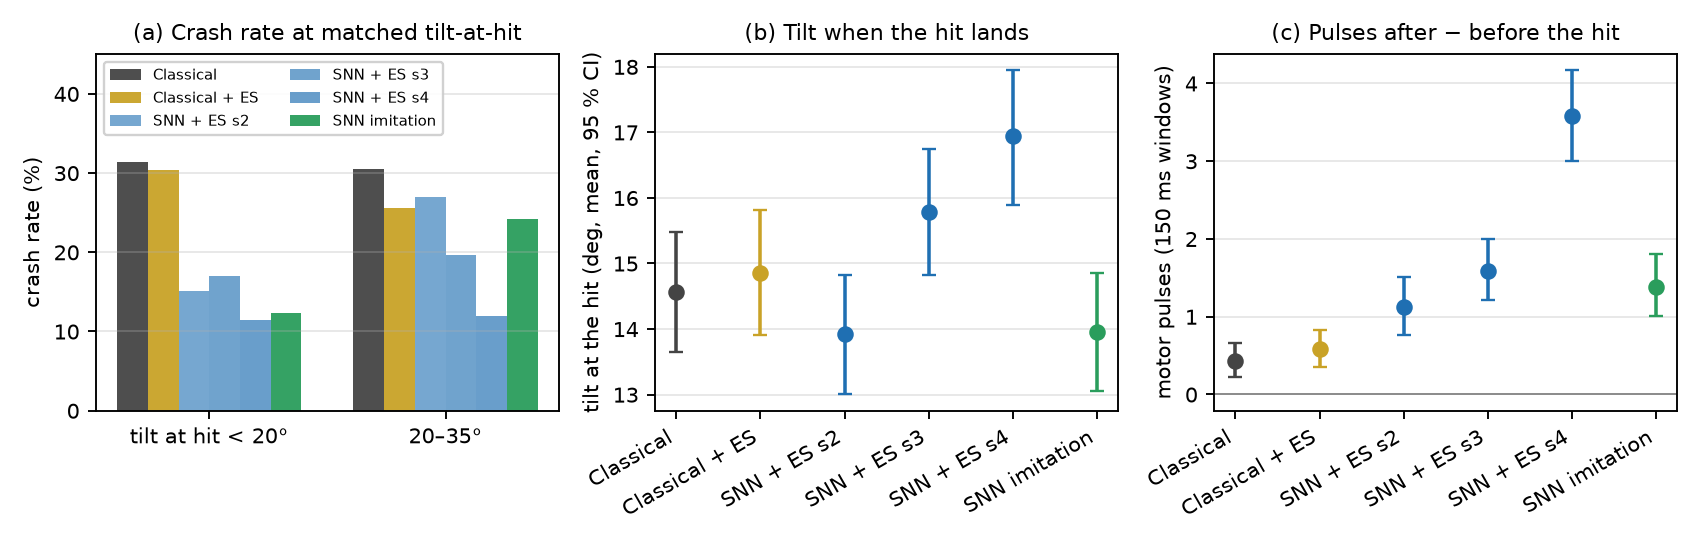
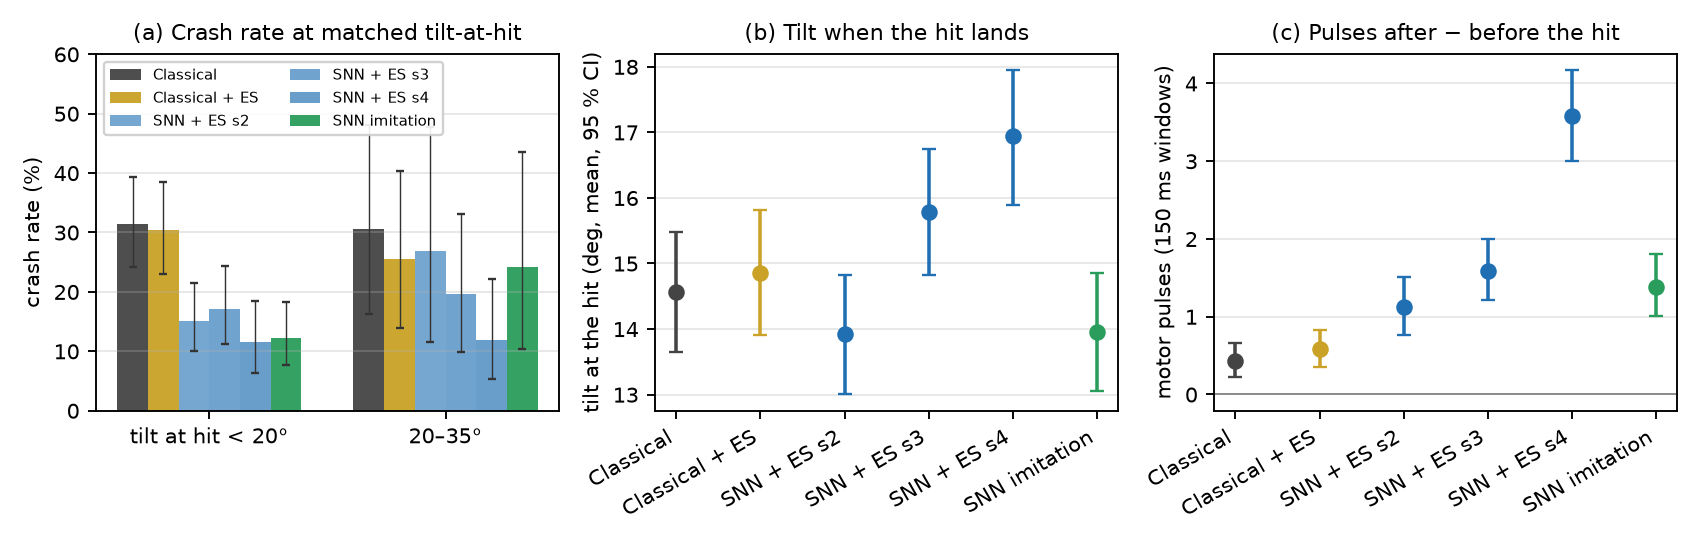
paper: figure fixes after review round 2 (skew histogram, crash annotations, machine distinction, H1 labels, legend positions, CIs on matched-tilt bins, labelled interval band); review round 2 stored
Claude-Session: https://claude.ai/code/session_01XJCwSxuAndV8x1hbQ9Lmq2

diff --git a/docs/paper/make_results_figs.py b/docs/paper/make_results_figs.py
@@ -56,14 +56,14 @@ def fig_crashes():
     ax.bar(x+.5*w, m, w, color=C_SNN, label='SNN + ES (v11, 5 seeds, mean; bar = min–max)', yerr=[lo, hi], capsize=2, ecolor='#0b3d6b', error_kw=dict(lw=.8))
     ax.bar(x+1.5*w, np.array(bc)/1.92, w, color=C_BC, label='SNN, imitation only (seed 1)')
     for i, h in enumerate(h1):
-        ax.text(x[i], max(cls[i], max(snn[i]))/1.92+2.5, f"{h['seeds_passing']}/{h['seeds']}", ha='center', fontsize=7, color='#0b3d6b')
+        ax.text(x[i], max(cls[i], max(snn[i]))/1.92+2.5, f"H1 {h['seeds_passing']}/{h['seeds']}", ha='center', fontsize=6.5, color='#0b3d6b')
     ax.set_xticks(x)
     ax.set_xticklabels(labels, rotation=35, ha='right')
     ax.set_ylabel('crashed episodes (% of 192)')
     ax.set_ylim(0, 60)
     ax.grid(axis='y', alpha=.3)
     ax.legend(loc='upper right', ncol=2)
-    ax.set_title('Crashes of the frozen controllers on 14 blind robustness sets (64 cases per task); numbers = v11 seeds passing H1')
+    ax.set_title('Crashed episodes of the frozen controllers on 14 blind robustness sets (192 cases each)')
     fig.tight_layout()
     fig.savefig(OUT/'fig_r2_crashes.png')
     plt.close(fig)
@@ -102,10 +102,14 @@ def fig_delta():
     ax.set_yticks(y)
     ax.set_yticklabels(labels)
     ax.invert_yaxis()
-    ax.set_xlabel('paired Δ = arm ratio − classical opponent\'s own ratio on the same cases\n(negative = better than the re-tuned classical schedule)')
+    ax.set_xlabel('paired Δ = arm ratio − classical opponent\'s own ratio on the same cases\n(negative = better than the hand-tuned classical opponent)')
     ax.grid(axis='x', alpha=.3)
-    ax.legend(loc='upper right')
-    ax.set_title('Paired difference to the re-tuned classical schedule on every blind set')
+    ax.legend(loc='lower left', framealpha=.95)
+    for i in range(n):
+        for v in snn[i]:
+            if v > .6:
+                ax.annotate('v11 seed 1 (17 crashes)', (v, y[i]), xytext=(v-.02, y[i]-.55), fontsize=7, ha='right', color=C_SNN, arrowprops=dict(arrowstyle='-', color=C_SNN, lw=.6))
+    ax.set_title('Paired difference to the hand-tuned classical schedule on every blind set')
     fig.tight_layout()
     fig.savefig(OUT/'fig_r3_paired_delta.png')
     plt.close(fig)
@@ -175,14 +179,17 @@ def fig_nominal():
     S11 = json.loads((A/'plan_v11/summary.json').read_text())
     opp11 = json.loads((R/'v11/test_opponent.json').read_text())
     rows.append(('v11\n(fixed ES)', [S11[f's{s}']['snn_es']['mean'] for s in range(1, 6)], paired(opp11, opp11)['mean'],
-                 [S11[f'cls_es_s{s}']['mean'] for s in (1, 2)]+[0.999, 1.018]))
+                 [S11[f'cls_es_s{s}']['mean'] for s in (1, 2)]))
+    crashes = ['SNN 2 / opp. 1', 'SNN 10 / opp. 5', 'SNN 3 / opp. 0', 'SNN 6 / opp. 3', 'SNN 0 / opp. 0']
     fig, ax = plt.subplots(figsize=(7.4, 3.5), dpi=170)
     x = np.arange(len(rows))
     for i, (lab, snn, self_, cles) in enumerate(rows):
         ax.scatter([i]*len(snn), snn, color=C_SNN, s=26, zorder=3, label='SNN + ES, one point per seed' if i == 0 else None)
         ax.plot([i-.22, i+.22], [self_, self_], color=C_CLS, lw=2.2, zorder=2, label='classical opponent\'s own ratio' if i == 0 else None)
         if cles:
-            ax.scatter([i+.28]*len(cles), cles, marker='s', color=C_CLSES, s=24, zorder=3, label='Classical + ES (4 seeds)' if i == 4 else None)
+            ax.scatter([i+.28]*len(cles), cles, marker='s', color=C_CLSES, s=24, zorder=3, label='Classical + ES (2 seeds, same machines)' if i == 4 else None)
+            ax.scatter([i+.28]*2, [0.999, 1.018], marker='s', facecolors='none', edgecolors=C_CLSES, s=24, zorder=3, label='Classical + ES (2 seeds, approximate machine)' if i == 4 else None)
+        ax.text(i, .815, 'crashes: '+crashes[i], ha='center', fontsize=6.5, color=C_CLS)
     ax.axhline(.95, color='#c23b3b', ls=':', lw=1, label='preregistered threshold 0.95')
     ax.set_xticks(x)
     ax.set_xticklabels([r[0] for r in rows])
@@ -190,7 +197,7 @@ def fig_nominal():
     ax.set_ylim(.8, 1.5)
     ax.grid(axis='y', alpha=.3)
     ax.legend(loc='upper right', fontsize=7)
-    ax.set_title('Nominal manoeuvres: the ratio criterion is not reached by any controller, the classical included')
+    ax.set_title('Nominal manoeuvres: mean ratio per plan and the opponent\'s own ratio on the same blind set')
     fig.tight_layout()
     fig.savefig(OUT/'fig_r0_nominal.png')
     plt.close(fig)
@@ -207,13 +214,14 @@ def fig_mechanism():
     for j, (k, lab, col) in enumerate(arms):
         r = M[k]['crash_rate_by_tilt_at_hit']
         vals = [100*r[b][0]/r[b][1] if b in r else np.nan for b in bins]
-        ax.bar(np.arange(2)+(j-2.5)*w, vals, w, color=col, alpha=.95 if 'snn11' not in k else .55+.15*j/5, label=lab)
+        err = [[100*(r[b][0]/r[b][1]-r[b][2][0]) if b in r else 0 for b in bins], [100*(r[b][2][1]-r[b][0]/r[b][1]) if b in r else 0 for b in bins]]
+        ax.bar(np.arange(2)+(j-2.5)*w, vals, w, color=col, alpha=.95 if 'snn11' not in k else .55+.15*j/5, label=lab, yerr=err, capsize=1.5, error_kw=dict(lw=.6, ecolor='#333'))
     ax.set_xticks(np.arange(2))
     ax.set_xticklabels(['tilt at hit < 20°', '20–35°'])
     ax.set_ylabel('crash rate (%)')
     ax.set_title('(a) Crash rate at matched tilt-at-hit')
     ax.legend(fontsize=6.5, loc='upper left', ncol=2, framealpha=.9)
-    ax.set_ylim(0, 45)
+    ax.set_ylim(0, 60)
     ax.grid(axis='y', alpha=.3)
     ax = axes[1]
     for j, (k, lab, col) in enumerate(arms):
@@ -239,7 +247,28 @@ def fig_mechanism():
     plt.close(fig)
 
 
+def fig_skew():
+    import sys
+    sys.path.insert(0, str(ROOT))
+    opp = json.loads((R/'v11/test_opponent.json').read_text())
+    from experiments.algorithms.spike_steer import bench9 as T
+    fig, ax = plt.subplots(figsize=(5.2, 3.), dpi=170)
+    for t, col in (('evade', '#2f6db5'), ('redirect', '#1f8a4c'), ('dash', '#d4781f')):
+        med = {cl: np.median([r['score'] for r in opp if r['task'] == t and r['cls'] == cl]) for cl in T.CLASSES[t]}
+        ratios = [r['score']/med[r['cls']] for r in opp if r['task'] == t]
+        ax.hist(ratios, bins=np.arange(0, 3.05, .1), alpha=.55, color=col, label=f'{t}: mean {np.mean(ratios):.2f}')
+    ax.axvline(1., color='#444', lw=1)
+    ax.set_xlabel('opponent score ÷ its own class median (v11 blind set, 192 cases)')
+    ax.set_ylabel('cases')
+    ax.legend(fontsize=7.5)
+    ax.set_title('Why the ratio exceeds 1 for the opponent itself: right-skewed per-case ratios', fontsize=8.5)
+    fig.tight_layout()
+    fig.savefig(OUT/'fig_r0b_skew.png')
+    plt.close(fig)
+
+
 if __name__ == '__main__':
+    fig_skew()
     fig_nominal()
     fig_training()
     fig_crashes()

diff --git a/docs/paper/reviews/review_full_round2.md b/docs/paper/reviews/review_full_round2.md
@@ -1,0 +1,145 @@
+# Review of `docs/paper/draft_method_results.md`, round 2 (Sections 2–3, figures)
+
+Scope: every number in Section 3 was checked against `artifacts/spike_steer/plan_v*/`, `runs/spike_steer/v1{1,2,13}/*/summary.json` and the per-case rows (recomputed with `paired_report.paired` where needed); all 12 figures were opened. Paths below are relative to `/root/flapsim`. Items are ordered by importance within each part.
+
+---
+
+## A. Results numbers vs artifacts
+
+### A1. Discrepancies (draft text → source → fix)
+
+1. **"ES improves every seed over its imitation start by 0.06–0.20."** → `plan_v11/summary.json`: s1 1.166→1.046 (−0.120), s3 1.137→1.033 (−0.104), s4 1.238→1.054 (−0.184), s5 1.257→1.063 (−0.194); s2 `selected_generation = −1`, i.e. its "ES" controller *is* the imitation start (improvement 0). → "ES improves four of the five seeds over their imitation start by 0.10–0.19; for seed 2 selection returned the start itself."
+
+2. **"the roll-direction class (90°/270°) remains at a ratio of 1.4–1.6 in every plan."** → `dash_classes.roll`: v11 1.17 / 1.00 / 1.40 / 1.56 / 1.52; v9 1.29 / 1.19 / 1.64 / 1.62 / 1.06; v10 1.87 / 1.30 / 1.00 / 1.33 / 1.06. → "dash roll is the weakest cell in every plan (1.0–1.9 depending on the seed; 1.40–1.56 for the three best v11 seeds), while dash pitch is the SNN's best cell (0.88–0.91 in v11)."
+
+3. **"reaches the target 20–30 % sooner than the opponent but brakes later (overshoot 0.10–0.17 m vs 0.04 m)."** → No source file states these numbers (not in `report_v10.md`, `report_v11_v12.md`, the audit, or the summaries). Recomputed from the v11 blind rows (dash roll, 16 cases, all flown): t_reach classical 0.617 s vs SNN 0.44–0.54 s (13–29 % sooner; 22–29 % for seeds 1, 3, 4, 5); penalised overshoot `max_along − 0.25 m`: classical 0.034 m, SNN 0.10–0.20 m (seed 1 0.20 m; raw overshoot beyond the 0.15 m goal is 0.13 m vs 0.20–0.30 m). The bigger loss is the settle time: 0.58 s classical vs 0.46–1.36 s SNN (1.0–1.4 s for seeds 3–5). → Define the quantity ("displacement beyond the 0.25 m penalty threshold"), quote 0.10–0.20 m, add the settle time, and cite the rows (`runs/spike_steer/v11/evaluate_snn_es_s*_v11.json`, `plan_v11/homepc/…`).
+
+4. **Training/selection paragraph: "the ES centres stay crash-free on their 24-case batches, reach an objective of 0.90–0.97 by generation 7–9, and the selection objective decreases monotonically for seeds 3–5."** → `finetune_s*_v11/history.jsonl`: `flown_center = 23` for s2 at generations 5 and 15 and for s5 at generation 5 (centre objectives 1.545 / 1.479 / 1.562, the spikes visible in Fig. R1a); 0–12 of the 16 candidates crash per generation. Centre objectives at generations 7–9 are 0.94–1.04; the best generation per seed is 0.92–0.96 (g7–g15). `reselect_s*_v11.json`: s3 0.983→0.987 (g9→g11), s4 1.141→1.173 (g−1→g1), s5 0.999→1.079→1.084 (g11→g13→g15, with crashes). → "With full coverage and crash-aware ranking the centre crashes on its batch only three times in 80 centre evaluations (seeds 2 and 5), the centre objective falls from 1.05–1.16 to 0.92–0.96, and the selection objective falls to 0.98–0.99 by generation 11–15 for seeds 3–5 (seed 5 rises again after generation 11 when its centres start to crash)." Classical + ES batches are 0.95–1.07 (typically 0.96–1.00), not "0.96–0.98"; 0.975 on validation is correct for both seeds.
+
+5. **PPO reference: "A reference MLP + PPO arm trained on the same tasks (plan v8, 5 seeds) scored 1.109 ± 0.024 with 1 crash in 960 episodes."** → `ppo_direct/v8/comparison_v8.json`: 1.068 / 1.116 / 1.109 / 1.123 / 1.130 (mean 1.109, sd 0.024), crashes 1/0/0/0/0 — numbers correct, but (a) they are on the **v8** blind set (base 2 098 500 000), where the opponent crashed 5 times and its own ratio is 1.415, so they are not comparable to the v11 column they sit next to; the SNN + ES on the *same* v8 set scored 0.97–1.07; (b) the selected "PPO" centre of seeds 2, 3 and 5 is the imitation start (`g-1, budget fraction 0.0`; their rows are identical to `mlp_bc`). → Either move the sentence to the v8 context ("on the v8 blind set: MLP + PPO 1.07–1.13 vs SNN + ES 0.97–1.07; three of the five PPO seeds selected their imitation start") or drop it.
+
+6. **"The advantage sits in dash (Δ −0.36 … −0.72; 3–9 crashes vs 20) and redirect (12–22 vs 24), not in evade."** → per-task crash counts from `runs/spike_steer/v12/kick/rows_*.json`: dash classical **19**, SNN **7 / 7 / 9 / 2 / 10**; redirect 24 vs 22/19/17/12/17 (correct); evade 17 vs 11/6/8/8/13 with per-task Δ +0.24 / −0.15 / −0.07 / −0.12 / +0.20. → "dash (Δ −0.36 … −0.72; 2–10 crashes vs 19) and redirect (12–22 vs 24); in evade the SNN crashes less (6–13 vs 17) but the paired Δ has no consistent sign (−0.15 … +0.24)."
+
+7. **"mass +12.5 % … Δ +0.02 … +0.07, two seeds significantly."** → `v12/ood/summary.json`: +0.047 [+0.027, +0.067], +0.070 [+0.046, +0.094], +0.021 [−0.008, +0.050], +0.040 [+0.005, +0.076], +0.017 [−0.009, +0.043] → three seeds (1, 2, 4).
+
+8. **"The set-point channel changes more than the opponent's (|Δref| 0.20–0.39 rad vs 0.25 rad)."** → `plan_v13/mechanism_summary.json` `dref_norm`: s2 0.200, s3 0.369, s4 0.386, imitation 0.189, classical 0.251 — larger only for s3/s4. More important: the preregistered "reaction" reading (`preregistration_v13.json`: "corrective set-point change in most cases (projection CI below 0)") is **not met by any arm** — `proj_on_induced` is +0.01 … +0.10 for every arm (CIs at or above 0), i.e. the set-point moves *with* the induced tilt on average; `corrective_fraction` 0.32–0.51 vs classical 0.135. → Say explicitly that the preregistered set-point criterion failed, and that the pulse-count measure (listed among the preregistered measures but without a pass criterion) is what carries the mechanism conclusion.
+
+9. **"At matched tilt-at-hit … 12–27 % against 31 % at 20–35°."** → `crash_rate_by_tilt_at_hit`: the 20–35° bin has 26–67 cases; Clopper–Pearson: classical 11/36 [0.163, 0.481], s2 7/26 [0.116, 0.478], s3 10/51 [0.098, 0.331], s4 8/67 [0.053, 0.222], imitation 7/29 [0.103, 0.435]. Only seed 4 separates from the classical in this bin. The < 20° bin (122–166 cases) does support the claim (classical 49/156 [0.242, 0.393] vs SNN 0.10–0.21). → Quote CIs or restrict "far less" to the < 20° bin.
+
+10. **Exploratory GoogleCloud numbers** (SNN 0.997 / 1.093 / 1.058 / 1.013 / 1.016, "opponent's own ratio 1.097 there", "mean 1.035, best 0.997, 0 crashes"; classical + ES 0.999 / 1.018). → No evaluate/rows file exists in the repository for seeds 6–10 or for cls_es seeds 3–4 (the audit also records "GoogleCloud seeds 6–10 rows not local"); 0.999/1.018 appear only in the table of `report_v11_v12.md`, the SNN values nowhere. → **Unverifiable locally.** Either add the evaluate JSONs to `artifacts/` or reduce Table R0's exploratory row to one sentence with "(files not archived)".
+
+11. **"hit about the roll axis … the learned layer's advantage lies on the axis its pulses can actuate."** → `v13/kick_rollaxis/summary.json`: opponent 0 crashes, four SNN seeds 0 crashes, Δ −0.09 … −0.16; this is a floor effect (nobody is challenged), so it cannot show presence or absence of a pitch-specific advantage, and it hides that **seed 1 crashed 17 times (7 evade, 10 redirect; Δ +0.84 [+0.42, +1.32]) on hits that crash nobody else**. → Report seed 1's failure explicitly and base the axis argument on pitch-axis (74 vs 36–51) vs mid-manoeuvre random axis (60 vs 22–40) only; say the roll-axis set is uninformative.
+
+12. **Expectations stated before the run.** (a) "As stated in the amendment before the run, the advantage shrinks once the hit exhausts the learned layer's own tilt margin" → `plan_v12/amendment_3_dose_response.json` is hedged ("the SNN advantage *may* shrink *if* its own tilt margin is exhausted") → "as anticipated, with a hedge, in amendment 3". (b) `plan_v13/amendment_1_hit_timing.json` expected the advantage to be **largest for early hits and to shrink for late hits**; the result is the reverse in crash counts (late 40 → 5–16, early 56 → 22–45). The draft reports delay3 as "against the expectation stated before the run" but is silent on this one. → Add "contrary to the expectation recorded in amendment 1" to the timing paragraph.
+
+13. **Turbulence ×2: "outside envelope".** → `plan_v13/crash_table.md` and `summary_turb2.json` record H1 = 5/5 at ×2 (174–175 < 192 crashes and Δ −0.09 with CI below 0). → Say "the H1 rule passes formally at ×2 (5/5) because 174 < 192; we do not count it because every arm crashes on > 90 % of the cases" — otherwise a reader comparing the table with `crash_table.md` will think a row was dropped.
+
+14. **"An independent audit of the per-case rows put the ceiling of the metric at 0.87–0.89."** → `plan_v11/amendment_1.json` identifies the audit as an AI re-analysis (Fable 5.1) of the v7full–v10 rows, done before v11 had results; the ceiling is the per-case best-of-pool over 5–14 controllers of v9/v10 (0.890 / 0.878 / 0.868); "no controller meets settle in pitch/diag" is 0 of ≈1 800 pitch/diag episodes in v9–v10 (my recount of the v11 rows: again 0 of 16 pitch and 0 of 32 diag per arm, all 7 arms). → "a re-analysis of the per-case rows of plans v7–v10, performed before the v11 results (`plan_v11/audit/audit_report.md`)"; give the counts; a PC member will ask who audited.
+
+15. **Imitation-only row of Table R0: "+0.077 …" and "wins 46–63".** → Δ = +0.077 / +0.049 / +0.149 / +0.168 (all significant); wins 46 / 63 / 55 / 42 → list all four Δ; "42–63".
+
+16. **Earlier plans: "0.97–1.07 (v8 …)".** → `plan_v8/summary.json`: v8 SNN + ES crashed 10 times (0/2/1/2/5) against the opponent's 5; v9 opponent 0 crashes, v10 opponent 3; v7 full SNN crashed twice (seeds 2, 5). → Give the SNN crash count for v8 as you do for v9/v10, and the opponent's for each.
+
+17. **"the classical + ES arm … 0 crashes" and Fig. R0 legend "Classical + ES (4 seeds)".** → Two of the four are GoogleCloud (approximate, no rows). Mark them as such in the figure (hollow markers) or plot only seeds 1–2.
+
+### A2. Verified (no change needed)
+
+Table R0 means / Δ / CI / wins / crashes for seeds 1–5 and cls_es 1–2 (`plan_v11/summary.json`, recomputed from rows: wins 111/115 confirmed); 0 crashes in 960; seed 2 = imitation start; opponent self-ratios 1.0887 (v11, identical on CloudPC-2 / HomePC / artifact copies), 1.0862 (v9), 1.2727 (v10, 3 crashes), 1.4153 (v8, 5 crashes), 1.1835 (v7full, 1 crash); v8 0.97–1.07, v9 1.02–1.13 with 3 crashes, v10 1.02–1.25 with 6 crashes, v7 full 0.89–1.00 on 32/task; "every seed began to crash on the validation set after 2–10 generations" (`report_v10.md`); Table R1 — all 16 rows match `plan_v13/crash_table.md` and the 16 `summary.json` files; primary Δ/CIs for all five seeds and H1 4/5; dose–response (2 mN·m Δ −0.57 … −0.89, 5/5; 4.5 mN·m 86/192 = 45 %, SNN 24–49 %, s4 −0.648 [−0.937, −0.399], s1 +0.395 [+0.000, +0.793]; cls_es 16 / 56–58 / 87–89); late / early / pre / double / pitch-axis / ×1.25 / ×1.5 / ×2–3 / noise5 / delay3 crash counts and Δ ranges; `pre_t0_identical_to_classical = [192, 192]` for all 13 arms (`summary_kick_pre.json`); v9 centres 26–52 crashes, Δ −0.53 … +0.50; imitation start 27 and 2 crashes; mechanism: tilt at hit 14.6° vs 13.9–16.9°, seed 4 +2.38 [+1.75, +3.01]; pulses +1.12 / +1.59 / +3.58 [+3.0, +4.2] (imitation +1.39, classical +0.43); tilt peak −4.9 / −0.1 / −2.0 / −5.6; corrective fraction 32–51 %; Fig. R6 case: classical crashes in all three panels, seed 4 completes all three.
+
+---
+
+## B. Figures
+
+General: every results figure carries a *claim* as its title ("the ratio criterion is not reached by any controller…"). For a paper, remove the titles and put the claim in the caption; keep panel letters.
+
+**Fig. M1 `fig_m1_architecture.png`** — consistent with 2.3 (25-D features, 11 taps, 8 LIF, 2 sub-steps, refractory 37 ms, 3-tick pulse, +690 rad/s, righting reflex only outside the gate). No issue.
+Caption: *Three-layer controller in one 2 ms tick. The learned descending layer (green) sees the 25-D rectified IMU/command features through 11 delay taps and emits motor-pulse spikes and graded roll/pitch set-points; the command gate hands control to it only while a manoeuvre is commanded (+1 s tail), otherwise the classical phase-locked base law acts. A pulse drives the motor to its maximum for 6 ms and produces pitch torque whose sign is set by the wingbeat phase; roll goes through the set-point and the PID.*
+
+**Fig. M2 `fig_m2_snn.png`** — τ_m = 2.02 ms, τ_s = 1.09 ms match seed 3's `selected.json`; the LIF equations match 2.3; parameter table sums to 2564. Minor: say in the caption that the plotted edges are a *selected* centre (seed 3) and that edges are sums over delays.
+Caption: *The descending spiking network: 25 inputs × 11 delay taps → 8 LIF hidden neurons → two spiking outputs (either spike triggers the same motor twitch) and two graded units (roll/pitch set-points), with 11 axonal delays of 0–20 ms on the hidden spike trains. Edge widths are |weights| summed over delays for the selected plan-v11 centre of seed 3; right: the update equations and the 2564 parameters searched by ES (time constants are learned in imitation and frozen).*
+
+**Fig. M3 `fig_m3_gating.png`** — correct for dash/redirect (t0 = 2.4 s). Two wording mismatches: the footnote says "AHRS tilt > 25° → switch to pulse_tuned" (code name) where the text says "righting pulse law"; the axis ends at 5 s while dash/redirect episodes are 6.5 s. Evade's random t0 is not shown (say so in the caption).
+Caption: *Command gating in one dash/redirect episode (t0 = 2.4 s; evade draws t0 ~ U(2.2, 2.8) s). The learned layer may act only after the 1.5 s take-off guard, is in charge from the command onset until 1 s after the goal is reached, and is otherwise replaced by the classical base law, so all arms fly identically before t0. Outside the gate a sensed tilt above 25° switches the base law to the righting law for the rest of the episode.*
+
+**Fig. M4 `fig_m4_pipeline.png`** — all numbers match 2.4–2.6. No issue.
+Caption: *Pipeline. The hand-tuned classical opponent (1) is the imitation teacher (2), the normaliser of the ES objective (3), the selection reference (4) and the paired comparator on every blind set (5, 6). Only the frozen output of stage 4 is ever evaluated on a blind set; the robustness sets (6) fly the same controllers unchanged.*
+
+**Fig. M5 `fig_m5_tasks.png`** — matches the task table. Panel (d) shows the plan-v9 `baseline.json` normalisers (class *means* on the 24 normalisation cases used by the ES objective), not the blind-set class *medians* used for the ratio; the caption must say which, since the audit shows they differ by 5–15 %.
+Caption: *The three manoeuvres in the heading frame fixed at the command onset (0° forward, 90° left): (a) evade 0.10 m in 4 directions, (b) redirect along φ1 then φ2 = φ1 ± 90° (8 pairs, class by φ2), (c) dash 0.15 m in 8 directions and settle; (d) the classical opponent's mean score per (task, direction class) on the 24 normalisation cases, the normaliser of the ES objective (the blind-set ratio instead uses the opponent's class median on the blind cases).*
+
+**Fig. R0 `fig_r0_nominal.png`** — matches the text. Issues: the two GoogleCloud classical + ES seeds are indistinguishable from the bit-exact ones (see A1-17); the v8 column hides that the SNN crashed 10 times there (annotate crash counts under each column: SNN / opponent); exploratory SNN seeds are rightly absent — say so in the caption.
+Caption: *Mean manoeuvre ratio of the SNN + ES controllers on the blind set of each plan (one point per seed, 64 cases per task except v7 full: 32) against the preregistered threshold 0.95 (dotted) and the classical opponent's own ratio on the same set (black bar), which exceeds 1 because case scores are right-skewed. In plan v11 the classical schedule re-optimised with the ES budget (gold) does not reach 0.95 either. Crashes (SNN / opponent): v7 2/1, v8 10/5, v9 3/0, v10 6/3, v11 0/0.*
+
+**Fig. R1 `fig_r1_training.png`** — (a) contradicts the text's "centres stay crash-free on their batches": the spikes to 1.5 are centre crashes (A1-4). (b) is fine. Legend of (b) partly covers the g−1 points.
+Caption: *(a) Centre objective per ES generation on the 24-case training batch (plan-v11 protocol; spikes above 1.4 are generations in which the centre crashed on one case). (b) Objective of the nine saved centres on the fixed 192-case validation set; crosses mark centres with at least one crash (excluded), circles the selected centre. The classical + ES arm (dashed) follows the same trajectory.*
+
+**Fig. R2 `fig_r2_crashes.png`** — matches Table R1 (turb ×2/×3 omitted, which is fine if the caption says so). The H1 numbers above the bars are easily misread as "n/5 scenarios"; write "H1 4/5 seeds". The blue bar shows mean with min–max whiskers — say "range", not "bar".
+Caption: *Crashed episodes (% of 192) of the frozen controllers on the 14 blind robustness sets (×2 and ×3 disturbance scaling omitted: every arm crashes on > 90 % of the cases). Blue: mean over the five v11 SNN + ES seeds, whiskers = min–max; numbers above the bars = v11 seeds passing H1 (paired-Δ CI below 0 and crashes ≤ opponent). Only the 3 mN·m mid-manoeuvre hit is confirmatory; the other sets are descriptive.*
+
+**Fig. R3 `fig_r3_paired_delta.png`** — the legend box covers the "nominal (v11 blind)" row's points (Δ −0.06 … +0.06); move the legend to the lower left. No CIs are drawn although the text argues from CIs; add per-seed CI whiskers at least for the primary row, or state in the caption that CIs are in Table R1/summaries. The x-range is set by the roll-axis seed-1 outlier (+0.84); label that point.
+Caption: *Paired difference Δ = arm ratio − classical opponent's own ratio on identical cases, on every blind set (negative = better than the hand-tuned schedule). One point per seed; blue line = range over the five v11 SNN + ES seeds; squares = the classical schedule re-optimised with the ES budget; triangles = the imitation-only start of seed 1. The outlier at +0.84 is v11 seed 1 on roll-axis hits (17 crashes where no other arm crashes).*
+
+**Fig. R4 `fig_r4_dose_response.png`** — correct, but the grey band (presumably the opponent's Clopper–Pearson 95 % interval) is not in the legend, the title says "Plan v12", and the panel is largely redundant with the first three groups of Fig. R2. Either fold it into R2 as an inset or keep it and drop the three kick columns from R2. If kept: label the band, remove the title.
+Caption: *Crash rate against the magnitude of a 20 ms torque hit landing 0.15–0.45 s into the manoeuvre (fresh blind set per level, 192 cases each). Grey band: exact 95 % interval of the classical opponent. The re-optimised classical schedule tracks the opponent at every level; the learned layer's advantage is largest at 2 mN·m and vanishes for four of five seeds at 4.5 mN·m.*
+
+**Fig. R5 `fig_r5_mechanism.png`** — (a) shows no uncertainty although the 20–35° bins have 26–67 cases (A1-9): add Clopper–Pearson whiskers and the n per bar; the three SNN seeds are three nearly identical blues — use markers or labels. (b), (c) fine. The set-point channel discussed in the text (|Δref|, corrective fraction, projection) has no panel; add a fourth panel or a small table, because that is the preregistered criterion that failed.
+Caption: *Mechanism of the kick robustness, from the 192 primary-scenario cases re-flown with traces. (a) Crash rate at matched true tilt when the hit lands (n per bar: classical 156/36; SNN seeds 122–166 / 26–67); (b) mean tilt at the hit with 95 % CI — the learned arms do not fly at a smaller tilt; (c) motor pulses in the 150 ms after the hit minus the 150 ms before (mean, 95 % CI). The learned layer's set-point change is not systematically corrective (projection on the induced tilt ≥ 0 for every arm, corrective in 32–51 % of cases vs 14 % for the opponent).*
+
+**Fig. R6 `fig_r6_kick_frame.png`** — a video frame: the title is cut off at the right edge ("case evade #13, redirect #…"), the row label "Classical + ES (upper bound, seed" is truncated, and "0.5x speed · t = 6.50 s" is video chrome. Re-render at the figure's aspect ratio with full labels. The classical + ES row shows that the opponent's evade crash disappears with a slightly different schedule (score 0.56) — the figure is a single hand-picked case per task and must be labelled as illustrative.
+Caption: *Illustrative final frames (t = 6.5 s) of three primary-scenario cases, one per task, chosen because the opponent crashes and the v11 seed-4 centre completes the manoeuvre; the hit (3 mN·m, 20 ms) lands 0.24 s after the command. Blue: trajectory; score and ratio to the opponent's score on the same case in the corner. Not representative: on the full set the opponent crashes 60/192, seed 4 22/192.*
+
+**Missing figures.** (i) A histogram of the opponent's per-case ratios (score / class median) on the v11 blind set, per task — one small panel would make the "right-skewed, hence self-ratio 1.09" argument visible instead of asserted. (ii) A per-class breakdown of the nominal result (7 cells × 5 seeds, Δ to opponent) — the dash-roll weakness and dash-pitch strength are stated in the text but shown nowhere. (iii) A time-resolved mechanism panel (mean tilt and pulse rate vs time around the hit, opponent vs seed 4) from the existing refly traces — zero new episodes, and far more convincing than (c) of Fig. R5.
+
+**Redundant.** R4 vs R2 (above). M3 could be merged into M1 as an inset if space is tight.
+
+---
+
+## C. Argument and clarity
+
+1. **Claim 1 (parity) is stated against the wrong comparator.** The SNN is at parity with the *hand-tuned* opponent (4 of 5 seeds Δ ≤ 0, one significant; one seed significantly worse). But the paper's own classical upper-bound arm is significantly better than that opponent (Δ −0.070 / −0.056) and numerically better than every SNN seed (1.019 / 1.032 vs 1.033–1.146). By the repository's own rule ("every conclusion must be compared with classical control re-tuned at the same budget"), the honest statement is "parity with the hand-tuned schedule, 0.01–0.03 behind the schedule re-tuned with the same ES budget (not tested statistically)". Compute the SNN vs classical + ES paired Δ from the existing rows (see D1) and say which it is. The section title "parity with the re-tuned classical schedule" should name the opponent (hand-tuned, class-wise grid).
+
+2. **Claim 2 ("structural, cannot be met", "unreachable for any controller") is an over-claim.** The audit itself says 0.95 is not physically impossible (per-case oracle 0.87–0.89, dash floor ≈ 0.94). What the data show is: not reached by 25 learned seed-runs and by a classical schedule given the same budget; the metric demands 12–25 % better than the opponent's mean, not 5 %. Rewrite: "The criterion was not reached by any controller we trained, including the classical schedule re-optimised with the same budget; the per-case oracle over all controllers bounds it at 0.87–0.89, so it is reachable only by a controller at the oracle level in every task." Also move the ratio-definition argument (mean of ratios to a median > 1 for right-skewed scores) to one sentence with a reference to the histogram (B, missing figure i).
+
+3. **Claim 3 (robustness, H1): confirmatory vs descriptive is blurred.** Section 2.6 says only the 3 mN·m mid-manoeuvre hit is confirmatory; Section 3.2 then bolds "H1 holds" for nine scenarios and the title says the open-loop schedule "does not" survive (it survives 69 % of the primary cases). Add, once, at the top of 3.2: "One scenario is confirmatory (H1 4/5). The other 14 sets were added by amendment before they ran; their H1 counts are descriptive, uncorrected for 15 scenarios × 5 seeds, and the H1 rule is degenerate when the opponent crashes 0 times (ood, roll-axis: the seed must have 0 crashes) or 192 times (×2: any seed passes)." Un-bold the descriptive rows. Title: "survives more of the disturbances that defeat an open-loop schedule".
+
+4. **Selection of the primary scenario needs one honest sentence.** The robustness tests were designed after the nominal criterion had failed five times (`preregistration_v12.json` says so), and the hit level was calibrated on the opponent to produce moderate crashes. This is legitimate (preregistered before any episode) but a reviewer will call it hypothesis generation after the fact unless the paper says: "the robustness hypothesis was formed after the nominal results and preregistered before any robustness episode; the hit magnitude was chosen on the opponent alone".
+
+5. **Claim 4 (mechanism) rests on a measure whose pass criterion was not preregistered, and the preregistered one failed** (A1-8). The text's logic is nonetheless reasonable (crash rate at matched tilt, pulse count, pitch-axis result), but it is correlational: more pulses after the hit could be a symptom of a larger upset rather than its cure (seed 4 is also the seed with the *largest* tilt at hit). The ablation in D3 would settle it. Until then write "consistent with" rather than "that is where its robustness comes from", and drop the roll-axis test from the argument (A1-11).
+
+6. **An alternative explanation is never addressed: the opponent is handicapped by design.** Section 2.5 states that the opponent's base-law pulses are *suppressed while a schedule segment is active*. During a 0.15–0.45 s hit the opponent therefore has no pulse channel at all (its +0.43 pulses after the hit are from segments that ended), while the SNN keeps it. The "open-loop vs closed-loop" story may partly be "pulses on vs pulses off". One run of the opponent with pulses un-suppressed (D2) is needed before the claim can be made; at minimum state the confound in 3.3 and 3.4.
+
+7. **Imitation-only start: N = 1.** "Robustness comes with the closed-loop layer itself" is inferred from one imitation start (seed 1). Seeds 3–5's starts exist and are frozen (D4). Say "one imitation start (seed 1)" wherever the claim is made.
+
+8. **Seed 2 is counted as an SNN + ES seed but is the imitation start.** This matters twice: in Table R0 (its +0.057 is an imitation-only result) and in every robustness row (its 32 crashes etc. are a second imitation-only arm, which in fact strengthens item 7). Label it "SNN + ES, seed 2 (selection returned the imitation start)" in both tables.
+
+9. **Exploratory seeds.** "best 0.997" reads as a selected best of five; with no archived rows it should not appear in a results table (A1-10). If kept: "mean 1.035 (range 0.997–1.093), approximate machine, files not archived".
+
+10. **Post-hoc demotion is handled well** (2.6, 3.2, 3.4 all say it). One improvement: give the ood result the same table format as the others and state that it is the one scenario in which the SNN is significantly *worse* (three seeds), so the negative result is not softened by "slightly".
+
+11. **Undefined or loosely defined terms** a reader will stumble on: "tilt margin" and "envelope" (3.2); "induced tilt" (the true tilt vector 60 ms after the hit, per prereg), "corrective", "|Δref| over 150 ms" (3.3); "wins" is defined in 2.2 but not that it is a strict `score <` comparison; "H1 (v11)" in Table R1 should read "v11 seeds passing H1 (of 5)"; "settle" for dash is defined in 2.2 only as "speed along φ < 0.1 m/s for 0.3 s" — Table R0's dash discussion needs the reminder that pitch/diag never settle, so their 4 s term cancels in the ratio.
+
+12. **"How was this computed?" places.** (a) "192/192 identical pre-t0 traces" — say what the fingerprint hashes (score/pulses/state at t0?). (b) "centre objective" vs "selection objective" vs "ratio": three different normalisations (class mean on 24 cases + tilt penalty; same on 192 cases; blind class median) — say so once in 3.1, because the audit shows a 0.03–0.05 offset between them. (c) Crash percentages in 3.2 are of 192 — state once. (d) "tilt peak within 0.5 s after the hit is 2–6° lower" — paired mean difference with CI (give them: −4.9 [−5.8, −4.0], −2.0 [−3.3, −0.8], −5.6 [−6.5, −4.7]). (e) The v9 centres' "Δ −0.53 … +0.50" — note that two v9 seeds are significantly *worse* than the opponent under the hit (s1 +0.50 [+0.02, +1.06]), the strongest evidence that ES without crash-aware ranking removes robustness.
+
+13. **Unclear sentences.** "the five exploratory seeds behave the same way" (same as what?); "the learned layer then handles the command-during-recovery better" → "handles a command issued during recovery from the hit better"; "Robustness therefore comes with the closed-loop layer itself, and ES fine-tuning trades some of it for speed unless crashes are ranked explicitly" → split and hedge: "Robustness is present in the imitation start of seed 1 before any ES; the v9 centres (ES without crash-aware ranking) range from much better to significantly worse than the opponent, the v11 centres (with it) are all better — consistent with ES trading robustness for speed unless crashes are penalised."
+
+14. **Limitations (3.4) — add:** (i) one simulator, one opponent family; the opponent's pulse suppression (item 6); (ii) the mechanism evidence is correlational; (iii) the robustness advantage is bounded: it vanishes at 4.5 mN·m, under a double hit, and under plant mismatch, and seed 1 fails on roll-axis hits; (iv) all five v11 seeds share the same five imitation starts and the same teacher, so "five seeds" are not five independent training runs in the imitation stage; (v) 192-case blind sets give 95 % intervals of ± 0.05 on Δ at nominal, so "parity" means |Δ| ≲ 0.05 is undetectable.
+
+---
+
+## D. Cheap experiments (one 32-core machine, frozen controllers)
+
+1. **SNN + ES vs classical + ES, paired, on the v11 blind set and on the 15 robustness sets.** Question: is the learned layer at parity with the *same-budget* classical, and is its robustness advantage over the re-tuned schedule as large as over the hand-tuned one? Cost: **0 episodes** (rows exist; `paired(cls_es_rows, snn_rows)`).
+
+2. **Opponent with its base-law pulses *not* suppressed during schedule segments**, on the nominal v11 set and the primary kick set. Question: is the opponent's crash rate under the hit due to open-loop timing or to the pulse channel being switched off (C-6)? Cost: 192 + 192 = **384 episodes** (add the 2 mN·m and ×1.5 sets: +384).
+
+3. **Channel ablation of the frozen v11 centres under the primary hit**: (a) learned pulses suppressed, set-points kept; (b) set-points zeroed, pulses kept; seeds 2, 3, 4. Question: does the robustness travel with the pulse channel, as 3.3 claims? Cost: 2 × 3 × 192 = **1 152 episodes** (seed 4 only: 384).
+
+4. **Imitation starts of seeds 3, 4, 5 under the primary hit and under ×1.5 pulses.** Question: is "robust before ES" a property of the architecture or of one start (C-7)? Cost: 3 × 2 × 192 = **1 152 episodes**.
+
+5. **Replication of the primary scenario on a fresh blind base** with the eight main arms (opponent, cls_es 1–2, v11 seeds 1–5). Question: does the only confirmatory result (H1 4/5, with seed 1's CI covering 0 and seed 5's upper bound at −0.02) replicate? Cost: 8 × 192 = **1 536 episodes**. If budget allows, 128 cases per task instead of 64 doubles the power of the paired test (3 072).
+
+---
+
+## Overall verdict
+
+The numerical core is sound: every number in Table R0, Table R1, the primary-scenario Δ/CIs, the dose–response, the crash table and the mechanism summary reproduces from the archived files, the preregistration/amendment trail is real and the post-hoc demotion is disclosed. The problems are of framing and of a handful of mis-stated details: the "parity" is with the hand-tuned opponent while the authors' own same-budget classical arm beats both; "structurally unreachable" overstates what was shown; nine scenarios are bolded as "H1 holds" although only one is confirmatory and the rule is degenerate at both ends; the mechanism section leans on a measure whose preregistered criterion failed and ignores the most obvious confound (the opponent's pulses are switched off during its schedule); the PPO reference is on a different blind set and is mostly behaviour cloning; the GoogleCloud numbers cannot be checked; and about ten quoted ranges (ES improvement, dash-roll ratio, overshoot, training objectives, per-task crash counts, significant seeds, |Δref|) are wrong by small but visible amounts. A program committee would judge this a careful, honest negative-plus-positive study whose positive claim (fewer crashes under mid-manoeuvre torque hits, 22–40 vs 60 of 192, replicated across hit levels, timing and sustained disturbance) is credible and interesting for a neuromorphic-control venue, but would require (i) the same-budget classical comparator to be the headline comparator, (ii) the pulse-suppression confound to be tested or declared, (iii) the confirmatory/descriptive split to be made explicit in Section 3.2, and (iv) the listed numerical corrections, before acceptance; with D1–D3 run (≈ 1 500 episodes) the mechanism claim could be made as a result rather than a consistency argument.
